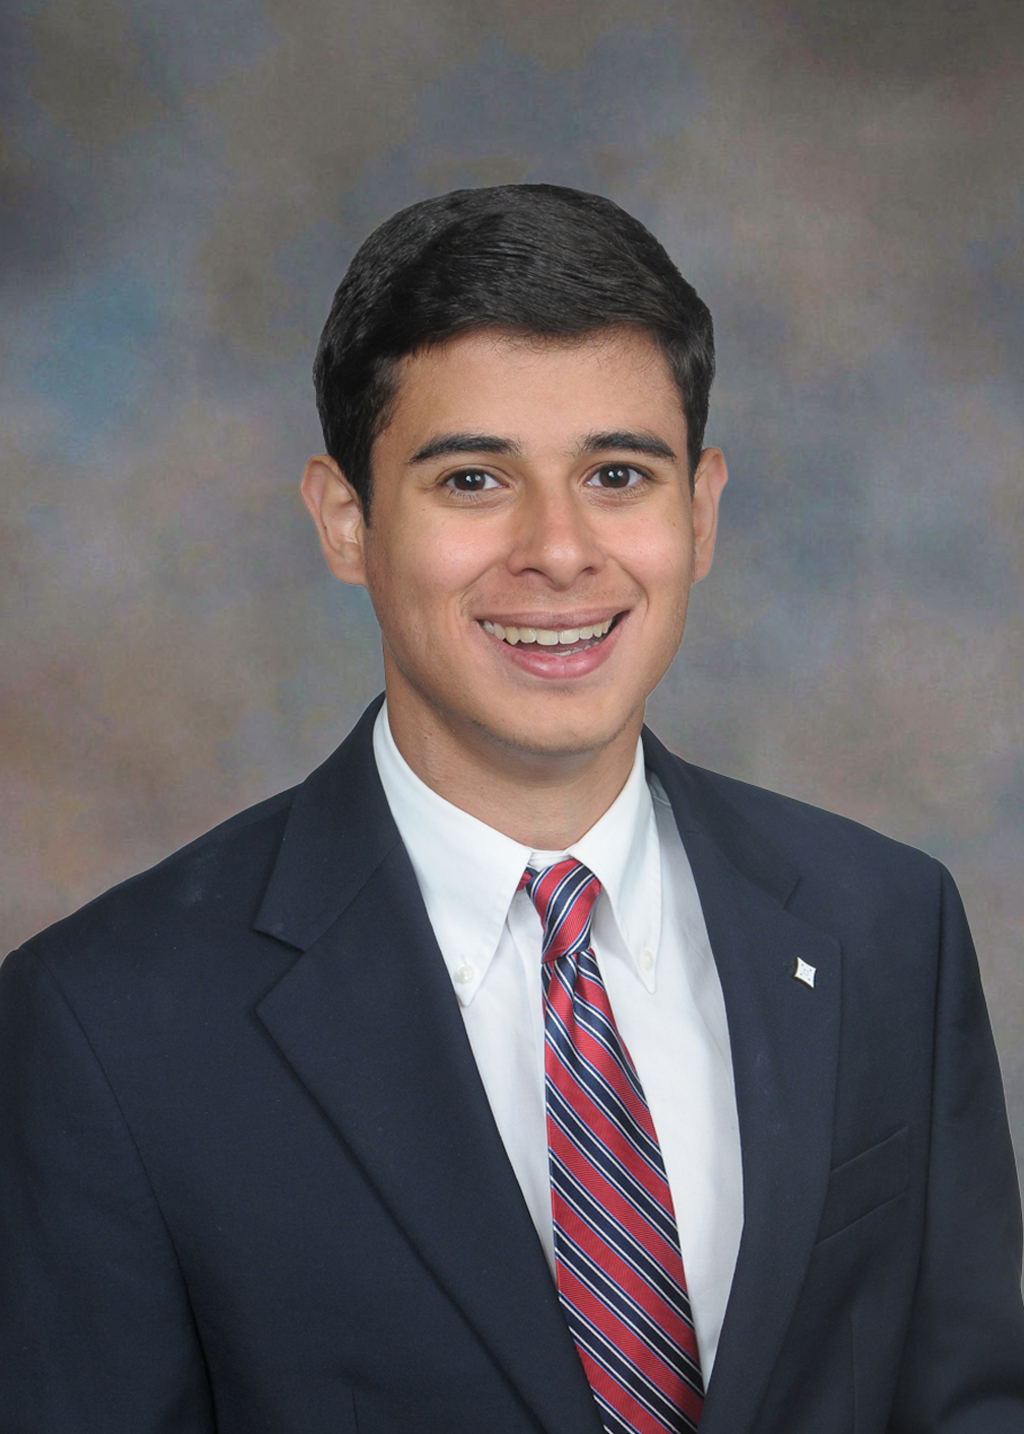
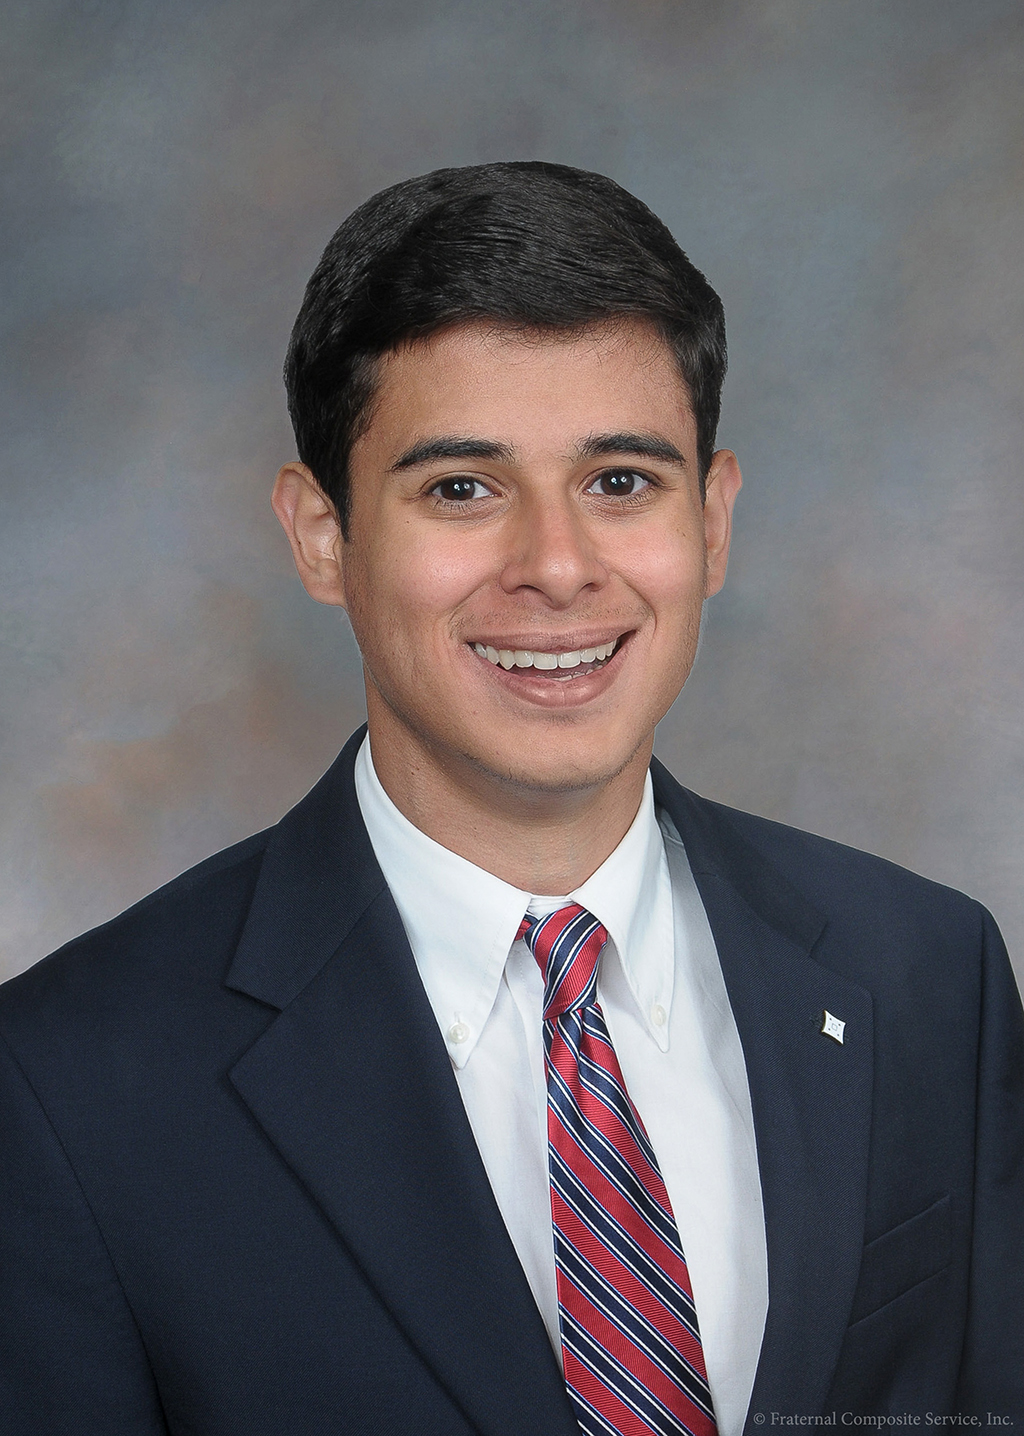
update photos

diff --git a/chapter.html b/chapter.html
@@ -86,47 +86,47 @@
                 </div>
             </div>
             <div class="col-xs-6 col-sm-4 col-md-2">
-              <img src="img/boys/Hayden Little_001360_@ (1).jpg" class="img-thumbnail">
+              <img src="img/boys/Hayden Little_005734_@.jpg" class="img-thumbnail">
               <p class="text-center">Hayden Little</br>President</p>
             </div>
             <div class="col-xs-6 col-sm-4 col-md-2">
-              <img src="img/boys/Sean Means_001486_@.jpg" class="img-thumbnail">
-              <p class="text-center">Sean Means</br>Vice President</p>
+              <img src="img/boys/Sam Wheeler_005718_@.jpg" class="img-thumbnail">
+              <p class="text-center">Sam Wheeler</br>Vice President</p>
             </div>
             <div class="col-xs-6 col-sm-4 col-md-2">
               <img src="img/boys/Patrick Crowley_001387_@.jpg" class="img-thumbnail">
               <p class="text-center">Patrick Crowley</br>Treasurer</p>
             </div>
             <div class="col-xs-6 col-sm-4 col-md-2">
-              <img src="img/boys/Tucker Burnett_001449_@.jpg" class="img-thumbnail">
+              <img src="img/boys/Tucker Burnett_005790_@.jpg" class="img-thumbnail">
               <p class="text-center">Tucker Burnett</br>Risk Managment</p>
             </div>
             <div class="col-xs-6 col-sm-4 col-md-2">
-              <img src="img/boys/Connor Quinn_001396_@.jpg" class="img-thumbnail">
+              <img src="img/boys/Connor Quinn_005768_@.jpg" class="img-thumbnail">
               <p class="text-center">Connor Quinn<br>Secretary</p>
             </div>
             <div class="col-xs-6 col-sm-4 col-md-2">
-              <img src="img/boys/Gianfranco Filice_001372_@.jpg" class="img-thumbnail">
-              <p class="text-center">Gianfranco Filice</br>Academic Affairs</p>
+              <img src="img/boys/GIANFRANCO FILICE_005684_@.jpg" class="img-thumbnail">
+              <p class="text-center">Gianfranco Filice</br>Alumni Relations</p>
             </div>
             <div class="col-xs-6 col-sm-4 col-md-2">
-              <img src="img/boys/Nick Pena_001460_@.jpg" class="img-thumbnail">
-              <p class="text-center">Nick Pena</br>Alumni Relations</p>
+              <img src="img/boys/Drake Hougo_005825_@.jpg" class="img-thumbnail">
+              <p class="text-center">David Lerner</br>Academic Affairs</p>
             </div>
             <div class="col-xs-6 col-sm-4 col-md-2">
               <img src="img/boys/Hugo Gonzalez_001479_@.jpg" class="img-thumbnail">
               <p class="text-center">Hugo Gonzalez</br>Philanthropy Chair</p>
             </div>
             <div class="col-xs-6 col-sm-4 col-md-2">
-              <img src="img/boys/Sam Wheeler_001365_@.jpg" class="img-thumbnail">
-              <p class="text-center">Sam Wheeler</br>Social Chair</p>
+              <img src="img/boys/Drake Hougo_005825_@.jpg" class="img-thumbnail">
+              <p class="text-center">Drake Hougo</br>Social Chair</p>
             </div>
             <div class="col-xs-6 col-sm-4 col-md-2">
-              <img src="img/boys/David Rosenzweig_001379_@.jpg" class="img-thumbnail">
+              <img src="img/boys/David Rosenzweig_005676_@.jpg" class="img-thumbnail">
               <p class="text-center">David Rosenzweig</br>Seargent at Arms</p>
             </div>
             <div class="col-xs-6 col-sm-4 col-md-2">
-              <img src="img/boys/James Rabe_001492_@.jpg" class="img-thumbnail">
+              <img src="img/boys/James Rabe_005812_@.jpg" class="img-thumbnail">
               <p class="text-center">Jimmy Rabe</br>Social Chair</p>
             </div>
             <div class="col-xs-6 col-sm-4 col-md-2">
@@ -146,51 +146,67 @@
             </div>
             <div class="row">
               <div class="col-xs-6 col-sm-4 col-md-2">
-                <img src="img/boys/Alexander Dunlap_001475_@.jpg" class="img-thumbnail">
-                <p class="text-center">Alex Dunlap</p>
+                <img src="img/boys/Alex  McKirgan_005700_@.jpg" class="img-thumbnail">
+                <p class="text-center">Alex McKirgan</p>
+              </div>
+              <div class="col-xs-6 col-sm-4 col-md-2">
+                <img src="img/boys/Alexander Lee_005651_@.jpg" class="img-thumbnail">
+                <p class="text-center">Alex Lee</p>
+              </div>
+              <div class="col-xs-6 col-sm-4 col-md-2">
+                <img src="img/boys/blake jones_@MCT_ _015.jpg" class="img-thumbnail">
+                <p class="text-center">Ben Ehmann</p>
+              </div>
+              <div class="col-xs-6 col-sm-4 col-md-2">
+                <img src="img/boys/ben ehmann_005831_@.jpg" class="img-thumbnail">
+                <p class="text-center">Blake Jones</p>
               </div>
               <div class="col-xs-6 col-sm-4 col-md-2">
                 <img src="img/boys/Chase Gutierrez_001447_@.jpg" class="img-thumbnail">
                 <p class="text-center">Chase Gutierrez</p>
               </div>
               <div class="col-xs-6 col-sm-4 col-md-2">
-                <img src="img/boys/Cody Carlton_001367_@.jpg" class="img-thumbnail">
+                <img src="img/boys/Cody Carlton_005782_@.jpg" class="img-thumbnail">
                 <p class="text-center">Cody Carlton</p>
               </div>
               <div class="col-xs-6 col-sm-4 col-md-2">
-                <img src="img/boys/Connor Quinn_001396_@.jpg" class="img-thumbnail">
+                <img src="img/boys/Connor Goodson_005708_@.jpg" class="img-thumbnail">
+                <p class="text-center">Connor Goodson</p>
+              </div>
+              <div class="col-xs-6 col-sm-4 col-md-2">
+                <img src="img/boys/Connor Quinn_005768_@.jpg" class="img-thumbnail">
                 <p class="text-center">Connor Quinn</p>
               </div>
               <div class="col-xs-6 col-sm-4 col-md-2">
-                <img src="img/boys/Daniel Salz_001413_@.jpg" class="img-thumbnail">
-                <p class="text-center">Daniel Salz</p>
+                <img src="img/boys/Darius Namazi_005664_.jpg" class="img-thumbnail">
+                <p class="text-center">Darius Namazi</p>
               </div>
               <div class="col-xs-6 col-sm-4 col-md-2">
-                <img src="img/boys/David Lerner_001496_@.jpg" class="img-thumbnail">
+                <img src="img/boys/David Lerner_005687_@.jpg" class="img-thumbnail">
                 <p class="text-center">David Lerner</p>
               </div>
               <div class="col-xs-6 col-sm-4 col-md-2">
-                <img src="img/boys/David Rosenzweig_001379_@.jpg" class="img-thumbnail">
+                <img src="img/boys/David Rosenzweig_005676_@.jpg" class="img-thumbnail">
                 <p class="text-center">David Rosenzweig</p>
               </div>
               <div class="col-xs-6 col-sm-4 col-md-2">
-                <img src="img/boys/Drake Hougo_001506_@.jpg" class="img-thumbnail">
+                <img src="img/boys/Drake Hougo_005825_@.jpg" class="img-thumbnail">
                 <p class="text-center">Drake Hougo</p>
               </div>
               <div class="col-xs-6 col-sm-4 col-md-2">
-                <img src="img/boys/Emiliano Rodrigues Jr.MCT_-585@.jpg" class="img-thumbnail">
+                <img src="img/boys/Emiliano Rodrigues_005730_@.jpg" class="img-thumbnail">
                 <p class="text-center">Emiliano Rodrigues</p>
               </div>
               <div class="col-xs-6 col-sm-4 col-md-2">
-                <img src="img/boys/Esteban  Ochoa_001483_@.jpg" class="img-thumbnail">
-                <p class="text-center">Esteban Ochoa</p>
-              </div>
-              <div class="col-xs-6 col-sm-4 col-md-2">
-                <img src="img/boys/Gianfranco Filice_001372_@.jpg" class="img-thumbnail">
+                <img src="img/boys/GIANFRANCO FILICE_005684_@.jpg" class="img-thumbnail">
                 <p class="text-center">Gianfranco Filice</p>
               </div>
               <div class="col-xs-6 col-sm-4 col-md-2">
-                <img src="img/boys/Hayden Little_001360_@ (1).jpg" class="img-thumbnail">
+                <img src="img/boys/Guillermo Wenrich_005755_@.jpg" class="img-thumbnail">
+                <p class="text-center">Guillermo Wenrich</p>
+              </div>
+              <div class="col-xs-6 col-sm-4 col-md-2">
+                <img src="img/boys/Hayden Little_005734_@.jpg" class="img-thumbnail">
                 <p class="text-center">Hayden Little</p>
               </div>
               <div class="col-xs-6 col-sm-4 col-md-2">
@@ -198,96 +214,104 @@
                 <p class="text-center">Hugo Gonzalez</p>
               </div>
               <div class="col-xs-6 col-sm-4 col-md-2">
-                <img src="img/boys/Jacob Barrus_001455_@.jpg" class="img-thumbnail">
-                <p class="text-center">Jacob Barrus</p>
-              </div>
-              <div class="col-xs-6 col-sm-4 col-md-2">
-                <img src="img/boys/Jake  Solomon_001437_@.jpg" class="img-thumbnail">
-                <p class="text-center">Jake Solomon</p>
-              </div>
-              <div class="col-xs-6 col-sm-4 col-md-2">
-                <img src="img/boys/James Rabe_001492_@.jpg" class="img-thumbnail">
+                <img src="img/boys/James Rabe_005812_@.jpg" class="img-thumbnail">
                 <p class="text-center">Jimmy Rabe</p>
               </div>
               <div class="col-xs-6 col-sm-4 col-md-2">
-                <img src="img/boys/Kyle Kinnie_001472_@.jpg" class="img-thumbnail">
+                <img src="img/boys/Jonathan Seymour_005805_@.jpg" class="img-thumbnail">
+                <p class="text-center">Jonathan Seymour</p>
+              </div>
+              <div class="col-xs-6 col-sm-4 col-md-2">
+                <img src="img/boys/Josh Wolff_005747_@.jpg" class="img-thumbnail">
+                <p class="text-center">Josh Wolff</p>
+              </div>
+              <div class="col-xs-6 col-sm-4 col-md-2">
+                <img src="img/boys/Justin Dieter_005728_@.jpg" class="img-thumbnail">
+                <p class="text-center">Justin Dieter</p>
+              </div>
+              <div class="col-xs-6 col-sm-4 col-md-2">
+                <img src="img/boys/Kevin Edwards_008332_@.jpg" class="img-thumbnail">
+                <p class="text-center">Kevin Edwards</p>
+              </div>
+              <div class="col-xs-6 col-sm-4 col-md-2">
+                <img src="img/boys/Kyle Kinnie_005788_@@.jpg" class="img-thumbnail">
                 <p class="text-center">Kyle Kinnie</p>
               </div>
               <div class="col-xs-6 col-sm-4 col-md-2">
-                <img src="img/boys/Luke Asperger_001464_@.jpg" class="img-thumbnail">
-                <p class="text-center">Luke Asperger</p>
-              </div>
-              <div class="col-xs-6 col-sm-4 col-md-2">
-                <img src="img/boys/Matthew Blaisdell_001466_@.jpg" class="img-thumbnail">
+                <img src="img/boys/Matthew Blaisdell_005667_@.jpg" class="img-thumbnail">
                 <p class="text-center">Matthew Blaisdell</p>
               </div>
               <div class="col-xs-6 col-sm-4 col-md-2">
-                <img src="img/boys/Mitchell White_001409_@ (1).jpg" class="img-thumbnail">
-                <p class="text-center">Mitch White</p>
+                <img src="img/boys/Michael Cai_005742_@.jpg" class="img-thumbnail">
+                <p class="text-center">Michael Cai</p>
               </div>
               <div class="col-xs-6 col-sm-4 col-md-2">
-                <img src="img/boys/Nicholas Branigan_001441_@.jpg" class="img-thumbnail">
+                <img src="img/boys/Nathaniel Lee_005778_@.jpg" class="img-thumbnail">
+                <p class="text-center">Nate Lee</p>
+              </div>
+              <div class="col-xs-6 col-sm-4 col-md-2">
+                <img src="img/boys/Nicholas Branigan_005695_@.jpg" class="img-thumbnail">
                 <p class="text-center">Nicholas Branigan</p>
+              </div>
+              <div class="col-xs-6 col-sm-4 col-md-2">
+                <img src="img/boys/Nicholas Cline_005776_@.jpg" class="img-thumbnail">
+                <p class="text-center">Nicholas Cline</p>
               </div>
               <div class="col-xs-6 col-sm-4 col-md-2">
                 <img src="img/boys/Nick Pena_001460_@.jpg" class="img-thumbnail">
                 <p class="text-center">Nick Pena</p>
               </div>
               <div class="col-xs-6 col-sm-4 col-md-2">
-                <img src="img/boys/Nico Stainfeld_001401_@.jpg" class="img-thumbnail">
+                <img src="img/boys/Nico Stainfeld_005692_@.jpg" class="img-thumbnail">
                 <p class="text-center">Nico Stainfeld</p>
               </div>
               <div class="col-xs-6 col-sm-4 col-md-2">
-                <img src="img/boys/Pablo Hernandez_001258_@.jpg" class="img-thumbnail">
-                <p class="text-center">Pablo Hernandez</p>
+                <img src="img/boys/Paco Lopez_005795_@.jpg" class="img-thumbnail">
+                <p class="text-center">Paco Lopez</p>
               </div>
               <div class="col-xs-6 col-sm-4 col-md-2">
-                <img src="img/boys/Patrick Crowley_001387_@.jpg" class="img-thumbnail">
-                <p class="text-center">Patrick Crowley</p>
+                <img src="img/boys/Raul Gallo Dagir_008341_@.jpg" class="img-thumbnail">
+                <p class="text-center">Raul Dagir</p>
               </div>
               <div class="col-xs-6 col-sm-4 col-md-2">
-                <img src="img/boys/Ryan Castaneda_001415_@.jpg" class="img-thumbnail">
-                <p class="text-center">Ryan Castaneda</p>
+                <img src="img/boys/Ryan Chandra_005757_@.jpg" class="img-thumbnail">
+                <p class="text-center">Ryan Chandra</p>
               </div>
               <div class="col-xs-6 col-sm-4 col-md-2">
-                <img src="img/boys/Sam Wheeler_001365_@.jpg" class="img-thumbnail">
+                <img src="img/boys/Ryan Foulke_005818_@.jpg" class="img-thumbnail">
+                <p class="text-center">Ryan Foulke</p>
+              </div>
+              <div class="col-xs-6 col-sm-4 col-md-2">
+                <img src="img/boys/Ryland Pampush_005647_@.jpg" class="img-thumbnail">
+                <p class="text-center">Ryland Pampush</p>
+              </div>
+              <div class="col-xs-6 col-sm-4 col-md-2">
+                <img src="img/boys/Sam Wheeler_005718_@.jpg" class="img-thumbnail">
                 <p class="text-center">Sam Wheeler</p>
               </div>
               <div class="col-xs-6 col-sm-4 col-md-2">
-                <img src="img/boys/Santi Gallego_001425_@.jpg" class="img-thumbnail">
+                <img src="img/boys/Santiago Gallego_005761_@.jpg" class="img-thumbnail">
                 <p class="text-center">Santi Gallego</p>
               </div>
               <div class="col-xs-6 col-sm-4 col-md-2">
-                <img src="img/boys/Sean Means_001486_@.jpg" class="img-thumbnail">
-                <p class="text-center">Sean Means</p>
+                <img src="img/boys/Spencer Montague-Alamin_005800_.jpg" class="img-thumbnail">
+                <p class="text-center">Spencer Montague-Alamin</p>
               </div>
               <div class="col-xs-6 col-sm-4 col-md-2">
-                <img src="img/boys/T Boone_009234_@.jpg" class="img-thumbnail">
-                <p class="text-center">Rohit Kolar</p>
-              </div>
-              <div class="col-xs-6 col-sm-4 col-md-2">
-                <img src="img/boys/Ted Miclau_001246_@.jpg" class="img-thumbnail">
-                <p class="text-center">Ted Miclau</p>
-              </div>
-              <div class="col-xs-6 col-sm-4 col-md-2">
-                <img src="img/boys/Thomas Oser II_001392_@.jpg" class="img-thumbnail">
-                <p class="text-center">Thomas Oser</p>
-              </div>
-              <div class="col-xs-6 col-sm-4 col-md-2">
-                <img src="img/boys/thomas silva_001423_@.jpg" class="img-thumbnail">
-                <p class="text-center">Thomas Froger Silva</p>
-              </div>
-              <div class="col-xs-6 col-sm-4 col-md-2">
-                <img src="img/boys/Tucker Albright_001307_@.jpg" class="img-thumbnail">
-                <p class="text-center">Tucker Albright</p>
-              </div>
-              <div class="col-xs-6 col-sm-4 col-md-2">
-                <img src="img/boys/Tucker Burnett_001449_@.jpg" class="img-thumbnail">
+                <img src="img/boys/Tucker Burnett_005790_@.jpg" class="img-thumbnail">
                 <p class="text-center">Tucker Burnett</p>
               </div>
               <div class="col-xs-6 col-sm-4 col-md-2">
-                <img src="img/boys/Walter Wang_001386_@.jpg" class="img-thumbnail">
-                <p class="text-center">Walter Wang</p>
+                <img src="img/boys/tyler johnson_@mct_-769@.jpg" class="img-thumbnail">
+                <p class="text-center">Tyler Johnson</p>
+              </div>
+              <div class="col-xs-6 col-sm-4 col-md-2">
+                <img src="img/boys/Will White_005720_@.jpg" class="img-thumbnail">
+                <p class="text-center">Will White</p>
+              </div>
+              <div class="col-xs-6 col-sm-4 col-md-2">
+                <img src="img/boys/William Yin_005661_@.jpg" class="img-thumbnail">
+                <p class="text-center">Will Yin</p>
               </div>
             </div>
         </div>

diff --git a/index.html b/index.html
@@ -108,7 +108,7 @@
                 <p>Rah Delt,</p>
                 <p>Hayden Little, <i>124th President of Delta Tau Delta - Beta Rho</i></p>
                 <div class="col-xs-6 col-sm-4 col-md-2">
-                  <img src="img/boys/Hayden Little_001360_@ (1).jpg" class="img-thumbnail">
+                  <img src="img/boys/Hayden Little_005734_@.jpg" class="img-thumbnail">
                 </div>
               </div>
               <div class="col-lg-1"></div>
